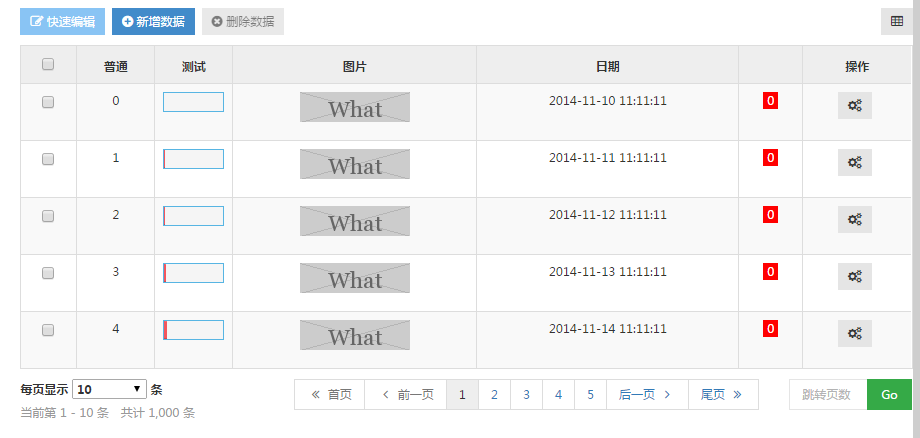
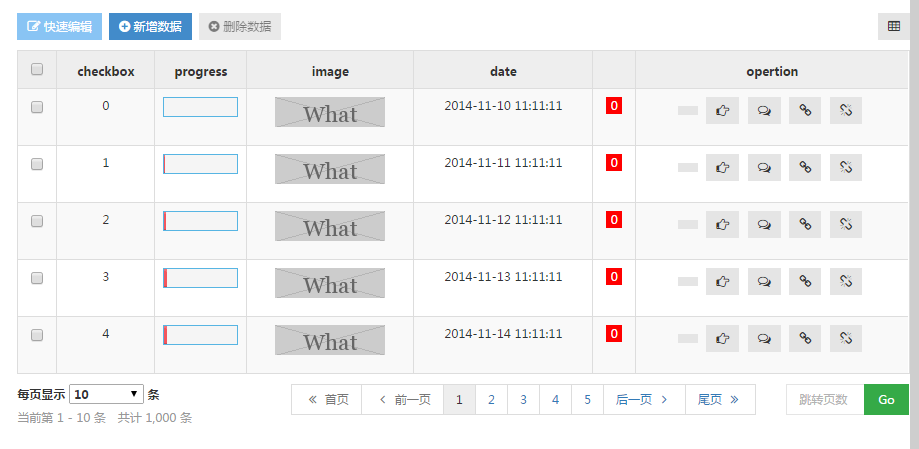
add screenshot

diff --git a/demo/demo.html b/demo/demo.html
@@ -40,7 +40,7 @@
         </div>
 
         <div class="col-md-2">
-            <!--<ui-tree region expand="1" on-click="treeTwoClick"></ui-tree>-->
+            <ui-tree url="/region" expand="1" on-click="treeTwoClick"></ui-tree>
         </div>
 
 
@@ -72,27 +72,20 @@
 
             <ui-table url="/test" edit-url="/test">
                 <ui-table-check-column name="a"></ui-table-check-column>
-                <ui-table-column head="普通" name="a" editable="region"></ui-table-column>
-                <ui-table-progress-column head="测试" name="a"></ui-table-progress-column>
-                <ui-table-image-column head="图片" name="ww"></ui-table-image-column>
-                <ui-table-date-column head="日期" name="e" ></ui-table-date-column>
-                <ui-table-state-column hred="状态" name="f" default="0" >
-                    <span class='label label-sm label-default' state="0"
-                          style='background-color:red !important'>0</span>
-                    <span class='label label-sm label-default' state="1"
-                          style='background-color:green !important'>1</span>
+                <ui-table-column head="checkbox" name="a" editable="region"></ui-table-column>
+                <ui-table-progress-column head="progress" name="a"></ui-table-progress-column>
+                <ui-table-image-column head="image" name="ww"></ui-table-image-column>
+                <ui-table-date-column head="date" name="e" ></ui-table-date-column>
+                <ui-table-state-column hred="state" name="f" default="0" >
+                    <span class='label label-sm label-default' state="0" style='background-color:red !important'>0</span>
+                    <span class='label label-sm label-default' state="1" style='background-color:green !important'>1</span>
                 </ui-table-state-column>
-                <ui-table-operation-column head="操作">
-                    <a title="管理用户" class="btn btn-sm default" href="javascript:;" ng-click="managePotential()"><i
-                            class="fa fa-cogs"></i></a>
-                    <a title="分配客户" class="btn btn-sm default" href="javascript:;" ng-click="assignPotential()"
-                       ng-if="isShow"><i class="fa fa-hand-o-right"></i></a>
-                    <a title="沟通记录" class="btn btn-sm default" href="javascript:;" ng-click="editContact()"
-                       ng-if="isShow"><i class="fa fa-comments-o"></i></a>
-                    <a title="认领" class="btn btn-sm default" href="javascript:;" ng-click="assignClaim()"
-                       ng-if="isShow"><i class=" fa fa-chain"></i></a>
-                    <a title="释放" class="btn btn-sm default " href="javascript:;" ng-click="assignRelease()"
-                       ng-if="isShow"><i class=" fa fa-chain-broken"></i></a>
+                <ui-table-operation-column head="opertion">
+                    <a class="btn btn-sm default" href="javascript:;" ng-click="managePotential()"><iclass="fa fa-cogs"></i></a>
+                    <a class="btn btn-sm default" href="javascript:;" ng-click="assignPotential()"><i class="fa fa-hand-o-right"></i></a>
+                    <a class="btn btn-sm default" href="javascript:;" ng-click="editContact()"><i class="fa fa-comments-o"></i></a>
+                    <a class="btn btn-sm default" href="javascript:;" ng-click="assignClaim()"><i class=" fa fa-chain"></i></a>
+                    <a class="btn btn-sm default " href="javascript:;" ng-click="assignRelease()"><i class=" fa fa-chain-broken"></i></a>
                 </ui-table-operation-column>
             </ui-table>
         </div>

diff --git a/README.md b/README.md
@@ -8,3 +8,74 @@
     * template   custom control template
     * admin.js   entry file
 
+## Form UI
+![Image text](https://raw.githubusercontent.com/binlaniua/AngularAdmin/master/demo/doc/form.png)
+```javascript
+<ui-form column="1">
+    <ui-form-input label="normal" placeholder="abc" help="help" model="ccc" ></ui-form-input>
+    <ui-form-date label="date" placeholder="abc" help="help" model="aaa"></ui-form-date>
+    <ui-form-select label="select">
+        <option value="a">aa</option>
+        <option value="a">aa</option>
+    </ui-form-select>
+    <ui-form-switch label="switch" name="qqq" on-value="1" off-value="2" on-text="123" off-text="321"></ui-form-switch>
+    <ui-form-region  label="region"></ui-form-region>
+    <ui-form-user-select label="user"></ui-form-user-select>
+    <ui-form-textarea label="&lt;span style='color:red'&gt;*&lt;/span&gt; textarea："></ui-form-textarea>
+</ui-form>
+```
+
+## SearchForm
+![Image text](https://raw.githubusercontent.com/binlaniua/AngularAdmin/master/demo/doc/searchform.png)
+```javascript
+<ui-search-form>
+    <ui-search-input class="input-medium" label="测试" name="test"></ui-search-input>
+    <ui-search-select name="test2">
+        <option value="aaa">创建人</option>
+        <option value="bbbb">沟通人</option>
+    </ui-search-select>
+    <ui-search-input-select>
+        <option value="aaa">联系方式</option>
+        <option value="bbbb">客户姓名</option>
+    </ui-search-input-select>
+    <ui-search-multi-select tip="xxxxx">
+        <option value="aaa">联系方式</option>
+        <option value="bbbb">客户姓名</option>
+        <option value="ccc">联系方式</option>
+        <option value="ddd">客户姓名</option>
+    </ui-search-multi-select>
+    <ui-search-date class="input-medium" label="日期" name="test3"></ui-search-date>
+    <ui-search-region mode="c" label="区域" name="asdasd22"></ui-search-region>
+    <ui-search-user-select class="input-medium" label="用户"></ui-search-user-select>
+    <ui-search-date-range label="注册时间"></ui-search-date-range>
+</ui-search-form>
+```
+
+## Toolbar And Table
+![Image text](https://raw.githubusercontent.com/binlaniua/AngularAdmin/master/demo/doc/toolbar_table.png)
+```javascript
+<ui-table url="/test" edit-url="/test">
+    <ui-table-check-column name="a"></ui-table-check-column>
+    <ui-table-column head="checkbox" name="a" editable="region"></ui-table-column>
+    <ui-table-progress-column head="progress" name="a"></ui-table-progress-column>
+    <ui-table-image-column head="image" name="ww"></ui-table-image-column>
+    <ui-table-date-column head="date" name="e" ></ui-table-date-column>
+    <ui-table-state-column hred="state" name="f" default="0" >
+        <span class='label label-sm label-default' state="0" style='background-color:red !important'>0</span>
+        <span class='label label-sm label-default' state="1" style='background-color:green !important'>1</span>
+    </ui-table-state-column>
+    <ui-table-operation-column head="opertion">
+        <a class="btn btn-sm default" href="javascript:;" ng-click="managePotential()"><iclass="fa fa-cogs"></i></a>
+        <a class="btn btn-sm default" href="javascript:;" ng-click="assignPotential()"><i class="fa fa-hand-o-right"></i></a>
+        <a class="btn btn-sm default" href="javascript:;" ng-click="editContact()"><i class="fa fa-comments-o"></i></a>
+        <a class="btn btn-sm default" href="javascript:;" ng-click="assignClaim()"><i class=" fa fa-chain"></i></a>
+        <a class="btn btn-sm default " href="javascript:;" ng-click="assignRelease()"><i class=" fa fa-chain-broken"></i></a>
+    </ui-table-operation-column>
+</ui-table>
+```
+
+## Tree
+![Image text](https://raw.githubusercontent.com/binlaniua/AngularAdmin/master/demo/doc/tree.png)
+```javascript
+<ui-tree url="/region" expand="1" on-click="treeTwoClick"></ui-tree>
+```
